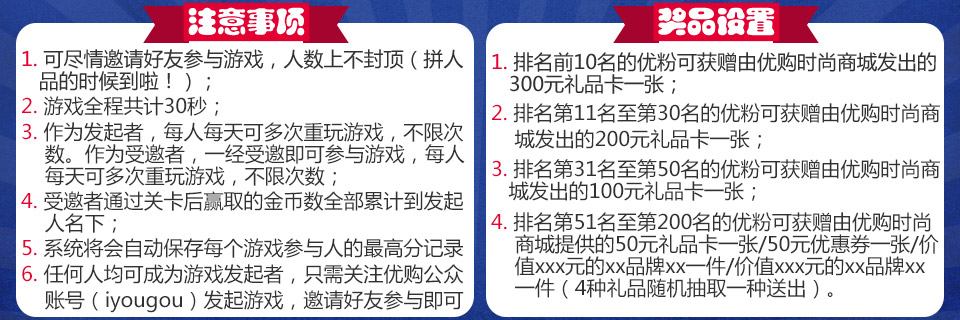
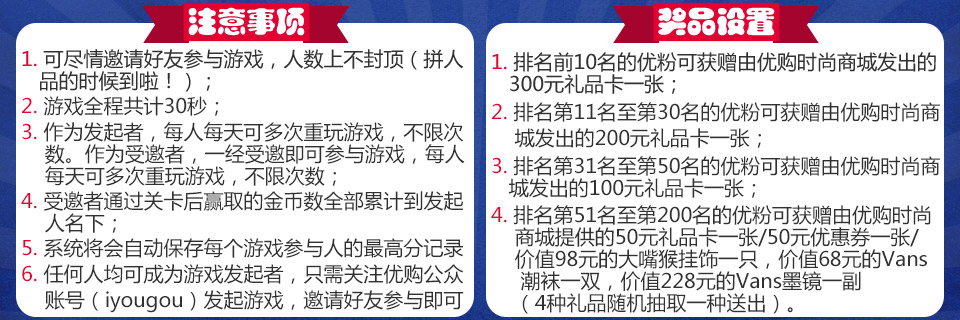
remove logso

Changed region(s): [[0.5, 0.3125, 1.0, 1.0]]

diff --git a/activity/finddiff/views/finddiff.html b/activity/finddiff/views/finddiff.html
@@ -26,7 +26,7 @@
                 </a>
             </div>
         </div>
-        <div class="end layer {% if vote.bonus > 0 || (vote.bonus == 0 && !owner)%} layer-show {% endif %}">
+        <div class="end layer {% if vote.bonus > 0 || !owner%} layer-show {% endif %}">
             <div class="result-wrap content-wrap">
                 {% if owner %} <img src="/public/images/result.png?__inline" title="优购品牌结果"> {% endif %}
                 {% if !owner %} <img src="/public/images/result_help.png?__inline" title="优购品牌结果"> {% endif %}
@@ -41,6 +41,9 @@
                     </a>
                     <a href="{{finddiff.id}}/rank">
                         <img src="/public/images/total.png?__inline" title="金币总和" class="btn total-btn">
+                    </a>
+                    <a href="notice">
+                        <img src="/public/images/notice.png?__inline" title="注意事项" class="btn notice-btn">
                     </a>
                 </p>
                 <p>
@@ -60,6 +63,9 @@
                     <a href="start">
                         <img src="/public/images/join.png?__inline" title="我也要玩" class="btn total-btn">
                     </a>
+                    <a href="notice">
+                        <img src="/public/images/notice.png?__inline" title="注意事项" class="btn notice-btn">
+                    </a>
                 </p>
                 {% endif %}
             </div>
@@ -69,47 +75,25 @@
         <div class="logo"></div>
         <div class="voice"></div>
         <div class="logo-name-wrap">
-            <img src="/public/images/logoname/15分钟.png?__inline" title="品牌名字">
-            <img src="/public/images/logoname/DC.png?__inline" title="品牌名字">
-            <img src="/public/images/logoname/GLM.png?__inline" title="品牌名字">
-            <img src="/public/images/logoname/GXG.png?__inline" title="品牌名字">
-            <img src="/public/images/logoname/fed.png?__inline" title="品牌名字">
-
-            <img src="/public/images/logoname/lee.png?__inline" title="品牌名字">
             <img src="/public/images/logoname/马-克-华-菲.png?__inline" title="品牌名字">
             <img src="/public/images/logoname/万斯.png?__inline" title="品牌名字">
 
-            <img src="/public/images/logoname/他她.png?__inline" title="品牌名字">
             <img src="/public/images/logoname/匡威.png?__inline" title="品牌名字">
-            <img src="/public/images/logoname/卡文.png?__inline" title="品牌名字">
             <img src="/public/images/logoname/卡特.png?__inline" title="品牌名字">
 
-            <img src="/public/images/logoname/哈森.png?__inline" title="品牌名字">
-            <img src="/public/images/logoname/威斯.png?__inline" title="品牌名字">
             <img src="/public/images/logoname/康莉.png?__inline" title="品牌名字">
 
             <img src="/public/images/logoname/彪马.png?__inline" title="品牌名字">
-            <img src="/public/images/logoname/拔佳.png?__inline" title="品牌名字">
-            <img src="/public/images/logoname/森达.png?__inline" title="品牌名字">
-            <img src="/public/images/logoname/泛高.png?__inline" title="品牌名字">
             <img src="/public/images/logoname/爱乐.png?__inline" title="品牌名字">
 
             <img src="/public/images/logoname/特步.png?__inline" title="品牌名字">
             <img src="/public/images/logoname/狼爪.png?__inline" title="品牌名字">
             <img src="/public/images/logoname/百丽.png?__inline" title="品牌名字">
 
-            <img src="/public/images/logoname/米菲.png?__inline" title="品牌名字">
-            <img src="/public/images/logoname/考莫.png?__inline" title="品牌名字">
             <img src="/public/images/logoname/耐克.png?__inline" title="品牌名字">
-            <img src="/public/images/logoname/芭迪.png?__inline" title="品牌名字">
-
-            <img src="/public/images/logoname/迈乐.png?__inline" title="品牌名字">
 
             <img src="/public/images/logoname/骆驼.png?__inline" title="品牌名字">
             <img src="/public/images/logoname/三叶草.png?__inline" title="品牌名字">
-            <img src="/public/images/logoname/卓诗尼.png?__inline" title="品牌名字">
-
-            <img src="/public/images/logoname/史努比.png?__inline" title="品牌名字">
             <img src="/public/images/logoname/天美意.png?__inline" title="品牌名字">
 
             <img src="/public/images/logoname/奥卡索.png?__inline" title="品牌名字">
@@ -118,67 +102,37 @@
             <img src="/public/images/logoname/探路者.png?__inline" title="品牌名字">
 
             <img src="/public/images/logoname/接吻猫.png?__inline" title="品牌名字">
-            <img src="/public/images/logoname/斯凯奇.png?__inline" title="品牌名字">
             <img src="/public/images/logoname/新百伦.png?__inline" title="品牌名字">
 
-            <img src="/public/images/logoname/杰米熊.png?__inline" title="品牌名字">
             <img src="/public/images/logoname/百思图.png?__inline" title="品牌名字">
-            <img src="/public/images/logoname/真美诗.png?__inline" title="品牌名字">
-
-            <img src="/public/images/logoname/红蜻蜓.png?__inline" title="品牌名字">
             <img src="/public/images/logoname/茵奈儿.png?__inline" title="品牌名字">
-            <img src="/public/images/logoname/萨洛蒙.png?__inline" title="品牌名字">
 
             <img src="/public/images/logoname/鬼冢虎.png?__inline" title="品牌名字">
             <img src="/public/images/logoname/乐斯菲斯.png?__inline" title="品牌名字">
-            <img src="/public/images/logoname/哥伦比亚.png?__inline" title="品牌名字">
 
-            <img src="/public/images/logoname/莱尔斯丹.png?__inline" title="品牌名字">
             <img src="/public/images/logoname/阿迪达斯.png?__inline" title="品牌名字">
-            <img src="/public/images/logoname/亦谷.png?__inline" title="品牌名字">
         </div>
         <div class="logo-wrap">
-            <img src="/public/images/logo/15分钟.png?__inline" title="品牌图案">
-            <img src="/public/images/logo/DC.png?__inline" title="品牌图案">
-            <img src="/public/images/logo/GLM.png?__inline" title="品牌图案">
-            <img src="/public/images/logo/GXG.png?__inline" title="品牌图案">
-            <img src="/public/images/logo/FED.png?__inline" title="品牌图案">
 
-            <img src="/public/images/logo/李.png?__inline" title="品牌图案">
             <img src="/public/images/logo/马-克-华-菲.png?__inline" title="品牌图案">
             <img src="/public/images/logo/万斯.png?__inline" title="品牌图案">
 
-            <img src="/public/images/logo/他她.png?__inline" title="品牌图案">
             <img src="/public/images/logo/匡威.png?__inline" title="品牌图案">
-            <img src="/public/images/logo/卡文.png?__inline" title="品牌图案">
             <img src="/public/images/logo/卡特.png?__inline" title="品牌图案">
 
-            <img src="/public/images/logo/哈森.png?__inline" title="品牌图案">
-            <img src="/public/images/logo/威斯.png?__inline" title="品牌图案">
             <img src="/public/images/logo/康莉.png?__inline" title="品牌图案">
 
             <img src="/public/images/logo/彪马.png?__inline" title="品牌图案">
-            <img src="/public/images/logo/拔佳.png?__inline" title="品牌图案">
-            <img src="/public/images/logo/森达.png?__inline" title="品牌图案">
-            <img src="/public/images/logo/泛高.png?__inline" title="品牌图案">
             <img src="/public/images/logo/爱乐.png?__inline" title="品牌图案">
 
             <img src="/public/images/logo/特步.png?__inline" title="品牌图案">
             <img src="/public/images/logo/狼爪.png?__inline" title="品牌图案">
             <img src="/public/images/logo/百丽.png?__inline" title="品牌图案">
 
-            <img src="/public/images/logo/米菲.png?__inline" title="品牌图案">
-            <img src="/public/images/logo/考莫.png?__inline" title="品牌图案">
             <img src="/public/images/logo/耐克.png?__inline" title="品牌图案">
-            <img src="/public/images/logo/芭迪.png?__inline" title="品牌图案">
-
-            <img src="/public/images/logo/迈乐.png?__inline" title="品牌图案">
 
             <img src="/public/images/logo/骆驼.png?__inline" title="品牌图案">
             <img src="/public/images/logo/三叶草.png?__inline" title="品牌图案">
-            <img src="/public/images/logo/卓诗尼.png?__inline" title="品牌图案">
-
-            <img src="/public/images/logo/史努比.png?__inline" title="品牌图案">
             <img src="/public/images/logo/天美意.png?__inline" title="品牌图案">
 
             <img src="/public/images/logo/奥卡索.png?__inline" title="品牌图案">
@@ -187,24 +141,15 @@
             <img src="/public/images/logo/探路者.png?__inline" title="品牌图案">
 
             <img src="/public/images/logo/接吻猫.png?__inline" title="品牌图案">
-            <img src="/public/images/logo/斯凯奇.png?__inline" title="品牌图案">
             <img src="/public/images/logo/新百伦.png?__inline" title="品牌图案">
 
-            <img src="/public/images/logo/杰米熊.png?__inline" title="品牌图案">
             <img src="/public/images/logo/百思图.png?__inline" title="品牌图案">
-            <img src="/public/images/logo/真美诗.png?__inline" title="品牌图案">
-
-            <img src="/public/images/logo/红蜻蜓.png?__inline" title="品牌图案">
             <img src="/public/images/logo/茵奈儿.png?__inline" title="品牌图案">
-            <img src="/public/images/logo/萨洛蒙.png?__inline" title="品牌图案">
 
             <img src="/public/images/logo/鬼冢虎.png?__inline" title="品牌图案">
             <img src="/public/images/logo/乐斯菲斯.png?__inline" title="品牌图案">
-            <img src="/public/images/logo/哥伦比亚.png?__inline" title="品牌图案">
 
-            <img src="/public/images/logo/莱尔斯丹.png?__inline" title="品牌图案">
             <img src="/public/images/logo/阿迪.png?__inline" title="品牌图案">
-            <img src="/public/images/logo/亦谷.png?__inline" title="品牌图案">
         </div>
         <div class="minus-seconds">扣3秒</div>
         <div class="remain-time">

diff --git a/webot/wxbot/activity/finddiff.js b/webot/wxbot/activity/finddiff.js
@@ -53,10 +53,16 @@ module.exports = function(webot) {
                         ].join("\n"));
                     } else {
                         finddiff = finddiffs[0];
-                        if (finddiff.rank > 0 && finddiff.rank < 50 && award) {
+                        if (finddiff.rank > 0 && finddiff.rank < 10 && award) {
+                            info.text = '2015FINDDIFFCODE4TOP10';
+                            return next();
+                        } else if (finddiff.rank >= 11 && finddiff.rank < 30 && award) {
+                            info.text = '2015FINDDIFFCODE4TOP30';
+                            return next();
+                        } else if (finddiff.rank >= 31 && finddiff.rank < 50 && award) {
                             info.text = '2015FINDDIFFCODE4TOP50';
                             return next();
-                        } else if (finddiff.rank > 50 && finddiff.rank < 200 && award) {
+                        } else if (finddiff.rank >= 51 && finddiff.rank < 200 && award) {
                             info.text = '2015FINDDIFFCODE4TOP200';
                             return next();
                         } else {

diff --git a/activity/finddiff/public/modules/share.js b/activity/finddiff/public/modules/share.js
@@ -27,7 +27,7 @@ wx.ready(function(){
         title: '优购版“找你妹”玩起来！', // 分享标题 优购给您发新年红包啦！
         desc: '选对优购在线品牌，300元现金礼品卡就是你哒！速度买Adidad/NIKE/NB去噜~', // 分享描述
         link: $("#share-link").attr('url'), // 分享链接
-        imgUrl: 'http://weixin.yougou.com/activity/finddiff/public/images/share_264f219.jpg?v=1', // 分享图标
+        imgUrl: 'http://weixin.yougou.com/activity/finddiff/public/images/share.jpg?v=1', // 分享图标
         type: 'link', // 分享类型,music、video或link，不填默认为link
         dataUrl: '', // 如果type是music或video，则要提供数据链接，默认为空
         success: function () { 

diff --git a/activity/finddiff/routes/index.js b/activity/finddiff/routes/index.js
@@ -128,7 +128,7 @@ router.get('/finddiff/:id', function(req, res) {
             owner = false;
 
         if (finddiff.nickname) {
-            vote = {bonus: 1};
+            vote = {bonus: 10};
             _.each(votes, function(item) {
                 if (item.subOpenId === req.session.subOpenId) {
                     vote = item;

diff --git a/activity/finddiff/views/notice.html b/activity/finddiff/views/notice.html
@@ -9,6 +9,7 @@
 {% block content %}
     <div id="finddiff-entry" class="finddiff-layer">
         <div class="notice-wrap content-wrap">
+            <br><br>
             <img src="/public/images/notice-content.jpg?__inline" title="注意事项">
         </div>
     </div>
